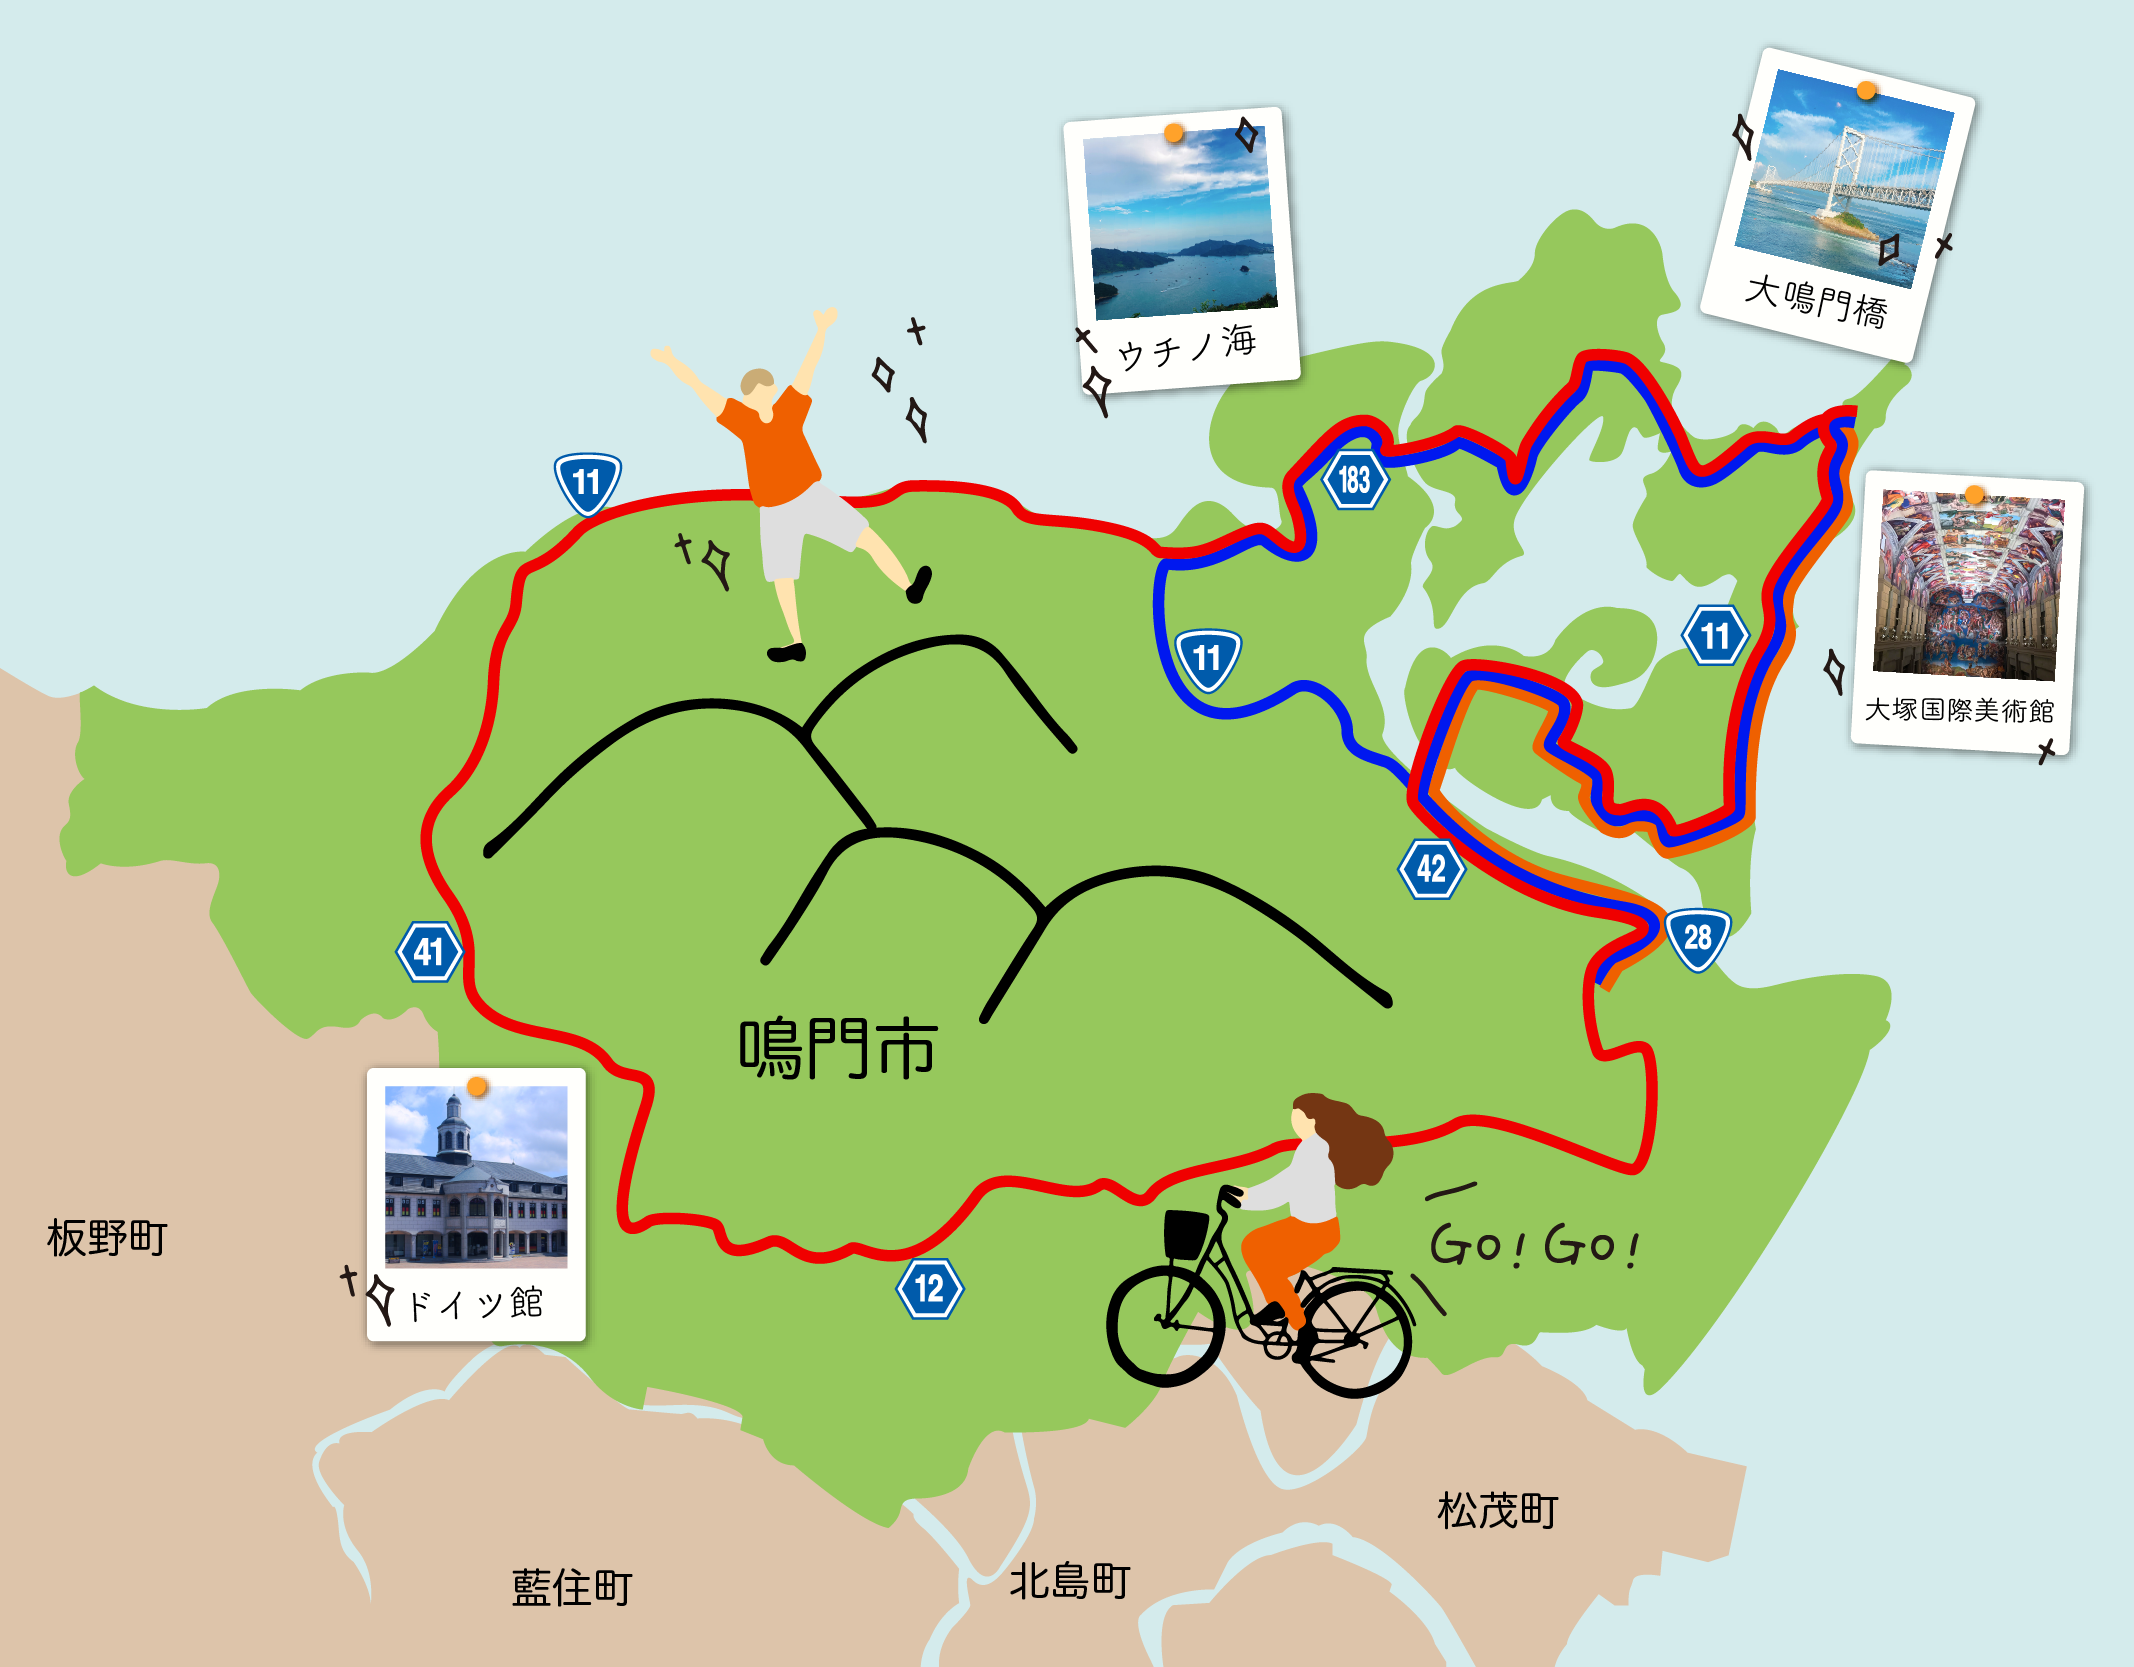
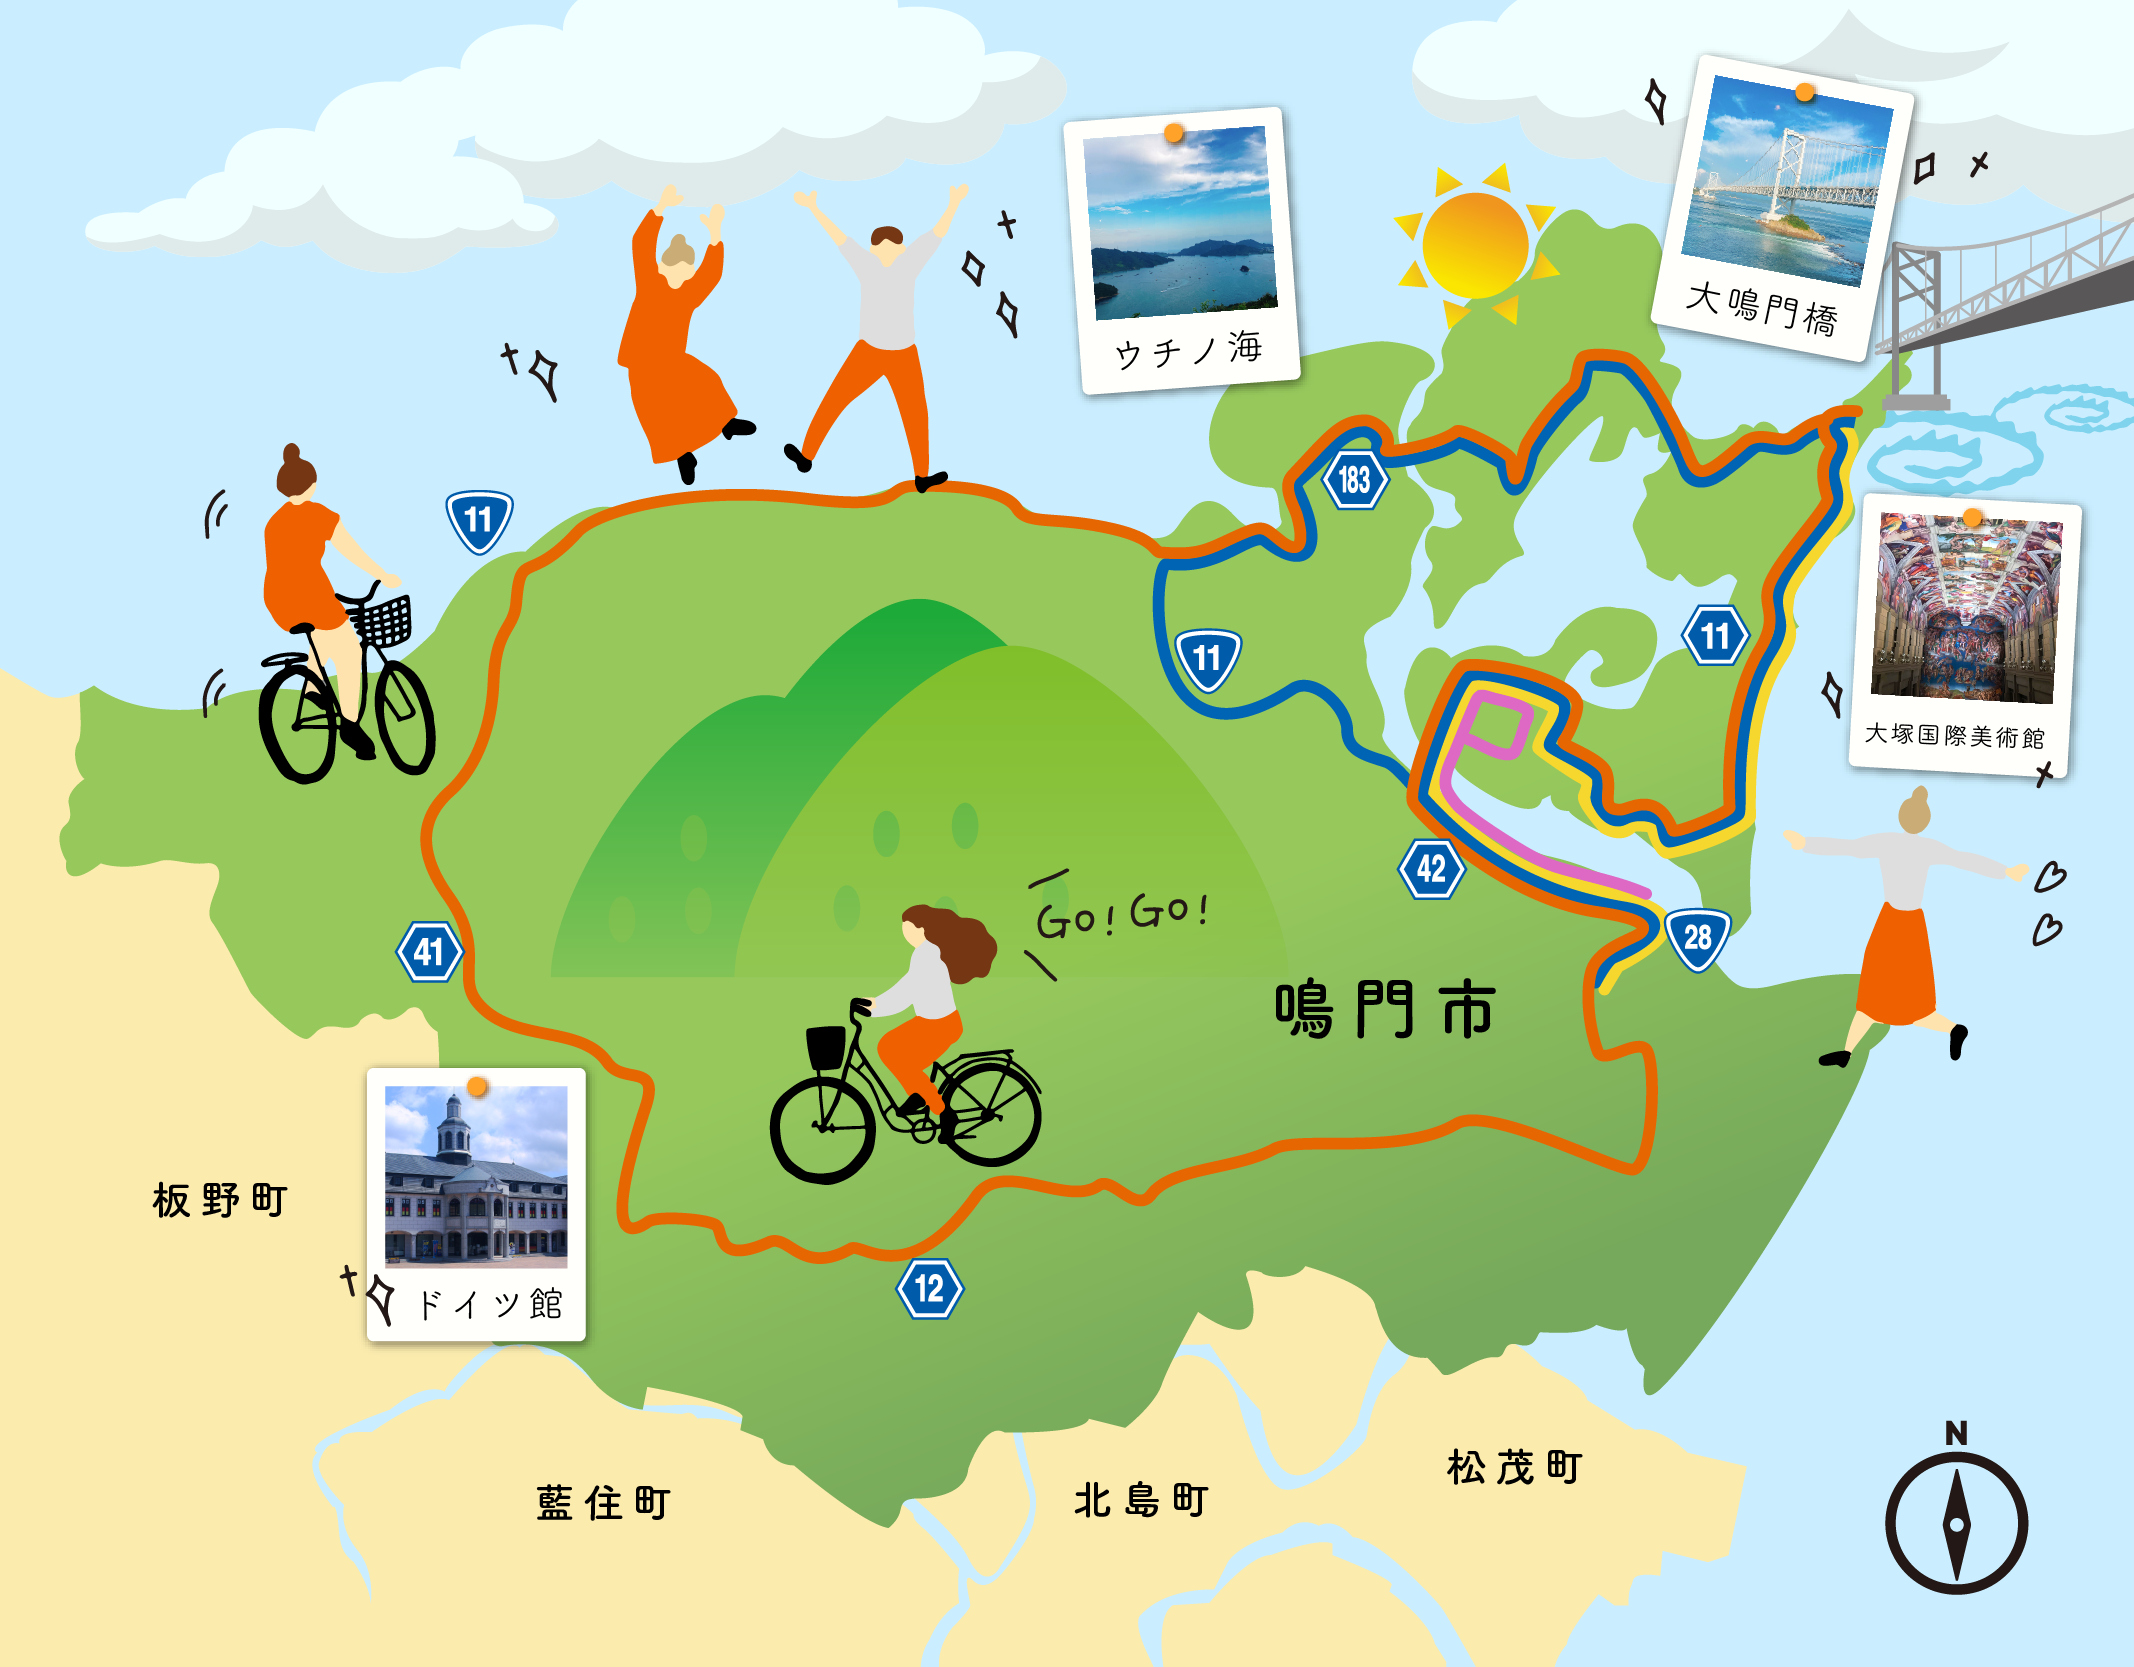
トップページ微調整（坂東）

diff --git a/assets/css/index.css b/assets/css/index.css
@@ -104,7 +104,7 @@ video {
     font-family: 'Arvo', serif;
     font-family: 'Noto Sans JP', sans-serif;
     font-weight: 900;
-    font-size: calc(100vw / 9);
+    font-size: calc(100vw / 8);
     -webkit-text-stroke: 2px #fff;
     text-stroke: 1px #fff;
     color: rgba(0, 0, 0, 0);
@@ -117,7 +117,7 @@ video {
 /* TB表示 */
 @media screen and (min-width: 600px) {
     .key_msg {
-        font-size: calc(100vw / 8);
+        font-size: calc(100vw / 10);
         top: 200px;
         left: 10%;
     }
@@ -126,8 +126,8 @@ video {
 /* PC表示 */
 @media screen and (min-width: 1024px) {
     .key_msg {
-        font-size: calc(100vw /8);
-        top: 200px;
+        font-size: calc(100vw /10);
+        top: 160px;
         left: 10%;
     }
 }
@@ -203,7 +203,8 @@ video {
         position: absolute;
         bottom: 0;
         right: 0;
-        opacity: 0.7;
+        /* opacity: 0.7; */
+        border-radius: 24px 0 0 0;
     }
 }
 
@@ -294,13 +295,14 @@ video {
 .index_howto {
     width: 100%;
     height: 100%;
-    padding: 32px;
+    /* padding: 32px; */
     background-color: #005EA7;
 }
 
 /* コンテンツボックス（見出し、概要、ボタン） */
 .index_howto_content {
     width: 100%;
+    padding: 120px 0 32px;
     max-width: 1024px;
     margin: 0 auto;
 }
@@ -310,6 +312,7 @@ video {
     .flex_pc {
         display: flex;
         align-items: center;
+        gap: 30px;
     }
 }
 
@@ -333,14 +336,15 @@ video {
 /* 見出し */
 .index_howto_top {
     width: 100%;
-    padding-top: 32px;
-    margin: 0 0 16px;
+    /* padding-top: 32px; */
+    margin-bottom: 32px;
 }
 
 /* キャプション */
 .index_howto_txt {
-    margin: 30px;
-    margin-right: 30px;
+    /* margin: 30px; */
+    /* margin-right: 30px; */
+    margin-bottom: 24px;
     text-align: left;
     line-height: 1.5;
 }
@@ -494,7 +498,7 @@ video {
 /* ボタン個別スタイル */
 /* 初心者コース */
 .beginner {
-    background-color: #96C85C;
+    background-color: #DD69C5;
 }
 
 .beginner:hover {
@@ -504,7 +508,7 @@ video {
 
 /* 短距離コース */
 .short {
-    background-color: #EF6000;
+    background-color: #F6D72E;
 }
 
 .short:hover {
@@ -513,7 +517,7 @@ video {
 
 /* 中距離コース */
 .middle {
-    background-color: #0018EF;
+    background-color: #0064B4;
 }
 
 .middle:hover {
@@ -522,7 +526,7 @@ video {
 
 /* 長距離コース */
 .long {
-    background-color: #F00000;
+    background-color: #E66702;
 }
 
 .long:hover {
